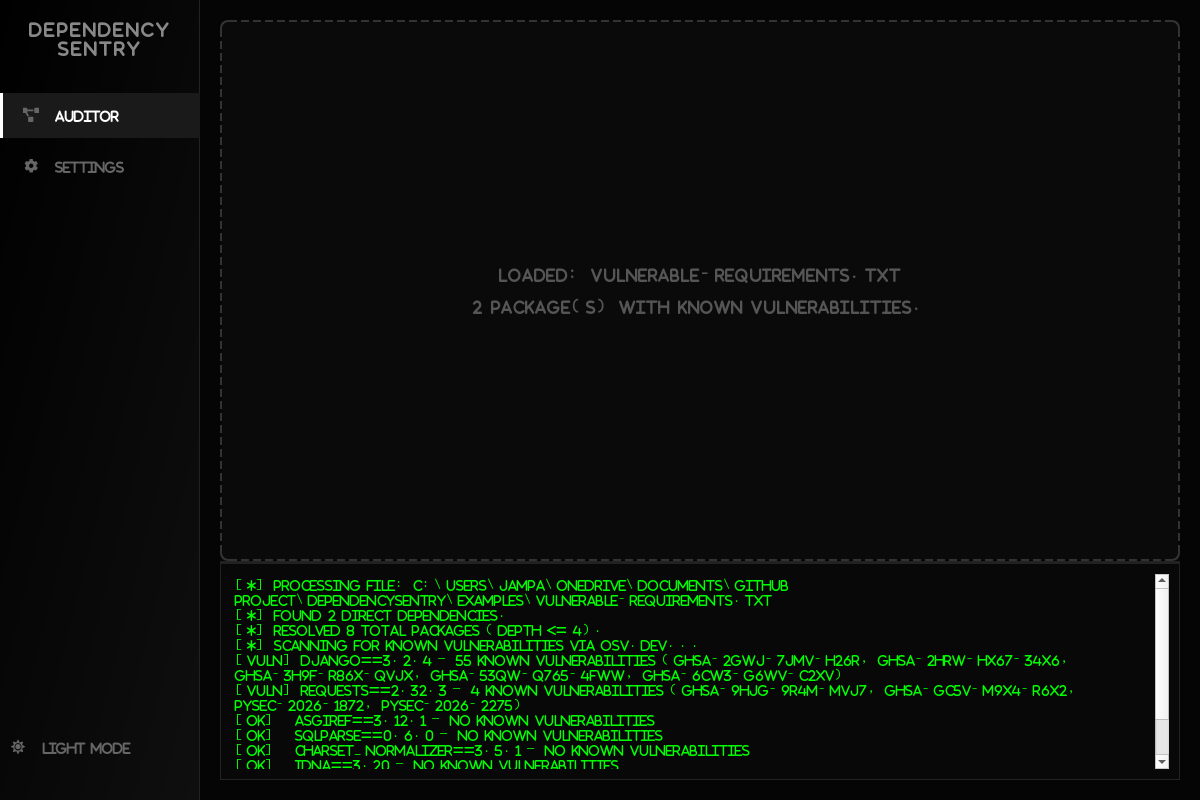
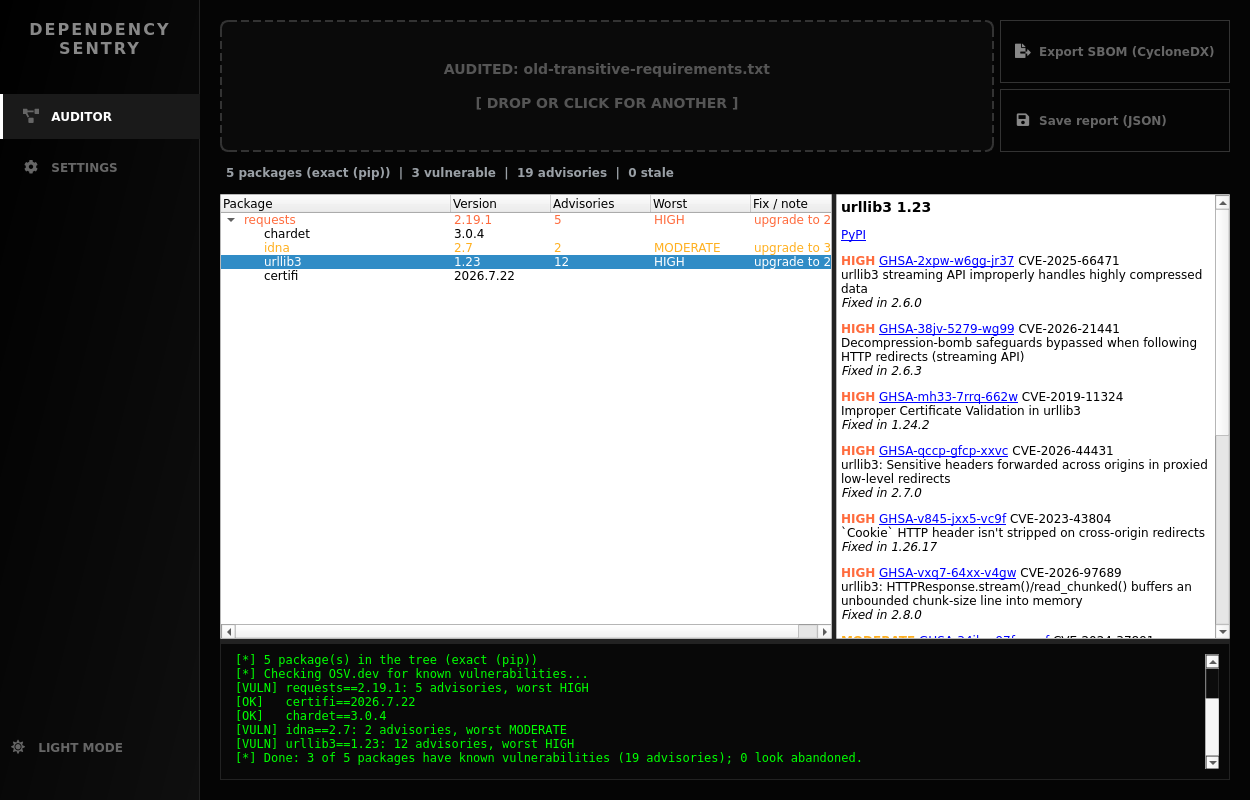
Rewrite the README for version 2

diff --git a/README.md b/README.md
@@ -1,91 +1,119 @@
 # Dependency-Sentry
 
-A desktop SBOM auditor for Python projects: drag in a `requirements.txt`,
-and it resolves the full dependency tree (not just direct dependencies)
-and checks every package against the [OSV.dev](https://osv.dev) vulnerability
-database.
+[![CI](https://github.com/JampaniKomal/DependencySentry/actions/workflows/ci.yml/badge.svg)](https://github.com/JampaniKomal/DependencySentry/actions/workflows/ci.yml)
 
-![Dependency-Sentry screenshot](docs/screenshot.png)
+A desktop SBOM auditor for Python projects: drag in a `requirements.txt` or
+`pyproject.toml`, and it works out the **full dependency tree at the exact
+versions that would be installed**, checks every package against the
+[OSV.dev](https://osv.dev) vulnerability database, flags packages that look
+abandoned, and exports the result as a **CycloneDX SBOM**. A command-line
+version does the same in CI.
 
-## Features
+![Dependency-Sentry: requests 2.19.1 pulls in urllib3 1.23 and idna 2.7, with their advisories, severities and fixed versions](docs/screenshot.png)
 
-- **Full dependency tree resolution.** Walks transitive dependencies via
-  the PyPI JSON API, up to a configurable depth (`config.json`), not just
-  the packages listed directly in your manifest.
-- **Real vulnerability scanning.** Every resolved package (pinned version
-  if specified, latest published version otherwise) is checked against
-  OSV.dev's live vulnerability database.
-- **Responsive UI.** The scan runs on a background thread so the window
-  never freezes while making network calls, with live progress in the
-  console.
-- **Drag-and-drop.** Drop a `requirements.txt` onto the window or browse
-  for one.
+## Why exact versions matter
+
+Most vulnerabilities in a Python project are not in what it lists but in what
+those packages pull in, at whatever version the installer picks. Take
+`requests==2.19.1` ([examples/old-transitive-requirements.txt](examples/old-transitive-requirements.txt)):
+it pins `urllib3<1.24` and `idna<2.8`, so an install gets urllib3 1.23 and
+idna 2.7, both with known vulnerabilities, even though today's urllib3 and
+idna are clean.
+
+| | Version 1 | Version 2 |
+|---|---|---|
+| Versions of transitive packages | the latest release | what pip would install |
+| Dependencies of `requests==2.19.1` | those of the *latest* requests (lists charset-normalizer, which 2.19.1 does not use) | those of 2.19.1 (chardet, idna, urllib3, certifi) |
+| Vulnerable packages found | 1 (requests) | 3 (requests, urllib3 1.23, idna 2.7) |
+| Advisories | missed all 14 for urllib3 and idna | 19, merged across PYSEC and GHSA, with severity and the version that fixes each |
+
+## How it works
+
+1. **Read the manifest.** Requirements files (comments, line continuations,
+   `-r` includes, hashes, environment markers, extras) or the `[project]`
+   dependencies of a `pyproject.toml`. Editable, local and URL requirements
+   cannot be audited by name and version, so they are listed as skipped
+   instead of silently dropped.
+2. **Resolve exactly.** Dependency-Sentry asks pip's own resolver:
+   `pip install --dry-run --report --only-binary=:all:` lists every package
+   pip would install, at the version it would choose, for this Python and
+   platform. Nothing is installed, and because only wheels are considered, no
+   package's build code ever runs, which matters for a manifest you do not
+   trust. Edges of the tree come from each package's own metadata, with
+   environment markers and extras evaluated.
+3. **Fall back honestly.** If pip cannot resolve (a package with no wheel, a
+   conflict), Dependency-Sentry says so and resolves *approximately* from
+   PyPI's metadata: the pinned version, or the newest non-yanked release that
+   satisfies the specifier, and the dependencies of that exact version. The
+   report and the SBOM record which mode was used.
+4. **Check OSV.dev.** All packages go in one batched query; each advisory is
+   then fetched once for its summary, aliases (CVE, GHSA, PYSEC), severity and
+   fixed versions. Records that alias each other (a PYSEC entry and its GHSA
+   twin) are merged into one, so a vulnerability is counted once.
+5. **Flag abandonware.** Packages whose project has had no release for a set
+   period (730 days by default) are marked stale.
+6. **Report.** A dependency tree coloured by worst severity, per-package
+   advisories with links and the lowest version that fixes each, a CycloneDX
+   1.6 SBOM (components with purls, the dependency graph, and the
+   vulnerabilities with ratings and upgrade recommendations), JSON, or text.
 
 ## Installation
 
 ```bash
 git clone https://github.com/JampaniKomal/DependencySentry.git
 cd DependencySentry
-pip install -r requirements.txt
-python main.py
+pip install -e .
+dependency-sentry-gui                 # the desktop app (or: python main.py)
 ```
 
 ## Usage
 
-1. Drag a `requirements.txt` onto the window (or click to browse).
-2. Watch the console as it resolves the dependency tree and queries
-   OSV.dev for each package.
-3. Any package with known vulnerabilities is flagged `[VULN]` with its
-   advisory IDs; clean packages are flagged `[OK]`.
+### Desktop app
+1. Drop a `requirements.txt` or `pyproject.toml` onto the window (or click to browse).
+2. The tree shows every package under the one that pulls it in, coloured by
+   its worst advisory; select a package for its advisories, CVEs and fixed versions.
+3. **Export SBOM** writes CycloneDX JSON; **Save report** writes the audit as JSON.
+4. **Settings**: exact or approximate resolution, and the abandonware period.
 
-Try it against `examples/vulnerable-requirements.txt` — a manifest with
-two deliberately outdated, genuinely vulnerable pins (`django==3.2.4`,
-`requests==2.32.3`) — to see real findings immediately.
+### Command line
 
-## Testing & Verification
+```bash
+dependency-sentry requirements.txt                          # text report, exit 1 if anything is vulnerable
+dependency-sentry pyproject.toml --sbom sbom.cdx.json       # also write a CycloneDX SBOM
+dependency-sentry requirements.txt --fail-on high --json    # gate CI on HIGH or CRITICAL only
+```
 
-The core scanning logic (`src/core/resolver.py`, `src/core/scanner.py`)
-already worked and was verified against the real PyPI and OSV.dev APIs,
-but was never actually wired into the running application — the GUI only
-listed package names from the manifest and never resolved or scanned
-anything. Fixed by adding `src/core/auditor.py`, a background-thread
-worker that runs the real parse -> resolve -> scan pipeline and streams
-results into the UI, and wiring it into `main_window.py` in place of the
-old name-only listing.
+Options: `--approximate`, `--abandoned-after DAYS` (0 = off), `--fail-on
+none|any|low|moderate|high|critical`, `--quiet`. Exit code 0 means nothing at
+or above `--fail-on`, 1 means something was found, 2 means the manifest could
+not be read.
 
-Verified end to end (not just the individual modules) by driving the
-actual `MainWindow` class headlessly with a manifest containing known-
-vulnerable pins: confirmed the console correctly reports 55 real
-vulnerabilities for `django==3.2.4` (including a CRITICAL SQL injection
-advisory) and 4 for `requests==2.32.3`, that clean transitive
-dependencies are correctly reported `[OK]`, and that the UI re-enables
-itself after the scan completes rather than getting stuck.
+## Tests and CI
 
-Also found and fixed: `qtawesome` is imported by the UI but was missing
-from `requirements.txt` entirely (a fresh install would crash on
-launch); `requests` was pinned to a version with 2 known CVEs
-(`PYSEC-2026-1872`, `PYSEC-2026-2275`), bumped to 2.33.0 and re-verified
-clean with `pip-audit`.
+15 tests run offline, with PyPI and OSV.dev faked: manifest parsing, the
+graph built from a recorded pip report, approximate resolution (specifiers,
+pre-releases, yanked releases, markers, extras), OSV alias merging and
+severities, fixed-version selection (including advisories whose ranges list
+git commits), abandonware, the CycloneDX SBOM validated against the official
+1.6 schema, the text and JSON reports, CLI exit codes, and the desktop window
+running headless; a 16th runs against the live services. CI runs the offline
+tests on Linux (Python 3.10, 3.13) and Windows, and
+a separate job audits the example manifests against the live services,
+validates the SBOM it writes, and uploads it.
 
-## Known Limitations
+## Known limitations
 
-- No dependency graph visualization yet — results are shown as a text
-  log, not the visual tree the "AUDITOR" icon implies. Removed the
-  previously-empty placeholder files for this (`graph_widget.py`,
-  `details_panel.py`) rather than ship unused stubs.
-- The "abandonware" check configured in `config.json`
-  (`abandonware_threshold_days`) is not implemented — no code currently
-  flags packages that haven't been updated recently.
-- Version resolution for unpinned dependencies always uses the latest
-  published version, not a real dependency-resolver-style constraint
-  solve across the whole tree.
-- The "SETTINGS" nav item in the sidebar has no page behind it yet.
-
-## Future Roadmap
-
-- [ ] Visual dependency graph (the originally-planned `graph_widget.py`).
-- [ ] Abandonware detection using `abandonware_threshold_days`.
-- [ ] A results/details panel instead of a plain scrolling console.
+- Exact resolution reflects the Python and platform Dependency-Sentry runs
+  on; a package that only installs on another platform is not in the tree.
+- Packages published without wheels make pip's resolution fail, and the
+  audit falls back to approximate resolution, which does not backtrack over
+  conflicting specifiers.
+- Only PyPI packages are audited; editable, local and VCS requirements are
+  listed as skipped.
+- OSV severities come from GitHub advisories; an advisory with none is shown
+  as UNKNOWN.
+- "Abandoned" means the project has had no release recently, not that it
+  is unsafe.
 
 ## License
 
